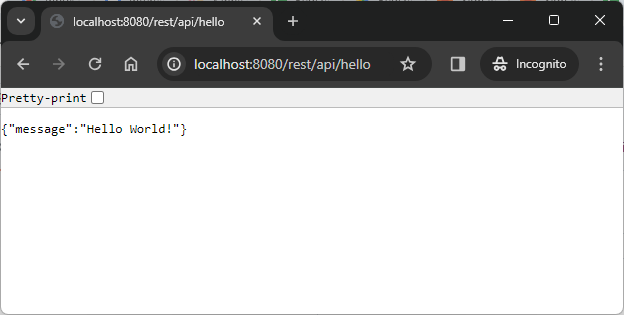
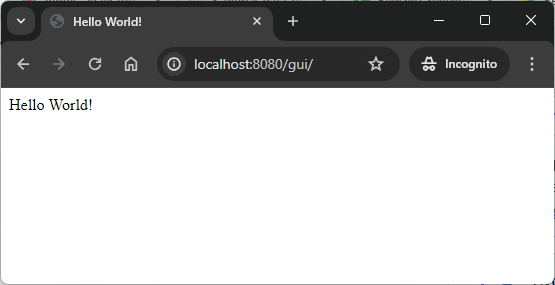
Update Readme file

diff --git a/architectures/gui/jpa/java-ee9-gui-jpa-helloworld-simple-index/README.md b/architectures/gui/jpa/java-ee9-gui-jpa-helloworld-simple-index/README.md
@@ -24,9 +24,9 @@ DESCRIPTION
 -----------
 
 ##### Goal
-The goal of this project is to present how to create **simple REST API Java** application using **Java EE 9** framework. This application returns JSON with the key "message" and the value **Hello World!** as the result of GET HTTP method. 
+The goal of this project is to present how to create **index** file in a **GUI JPA Java** application using **Java EE 9** framework. Application is deployed on **payara micro** in version 6.
 
-Application is deployed on **payara micro** in version 6.
+**Index** file is a default file displayed by server in the application. In other words it's starting point for all other actions.
 
 ##### Flow
 The following flow takes place in this project:
@@ -38,7 +38,7 @@ To launch this application please make sure that the **Preconditions** are met a
 
 ##### Technologies
 This project uses following technologies:
-* **Java EE 8** framework
+* **Java EE 9** framework
 
 
 PRECONDITIONS
